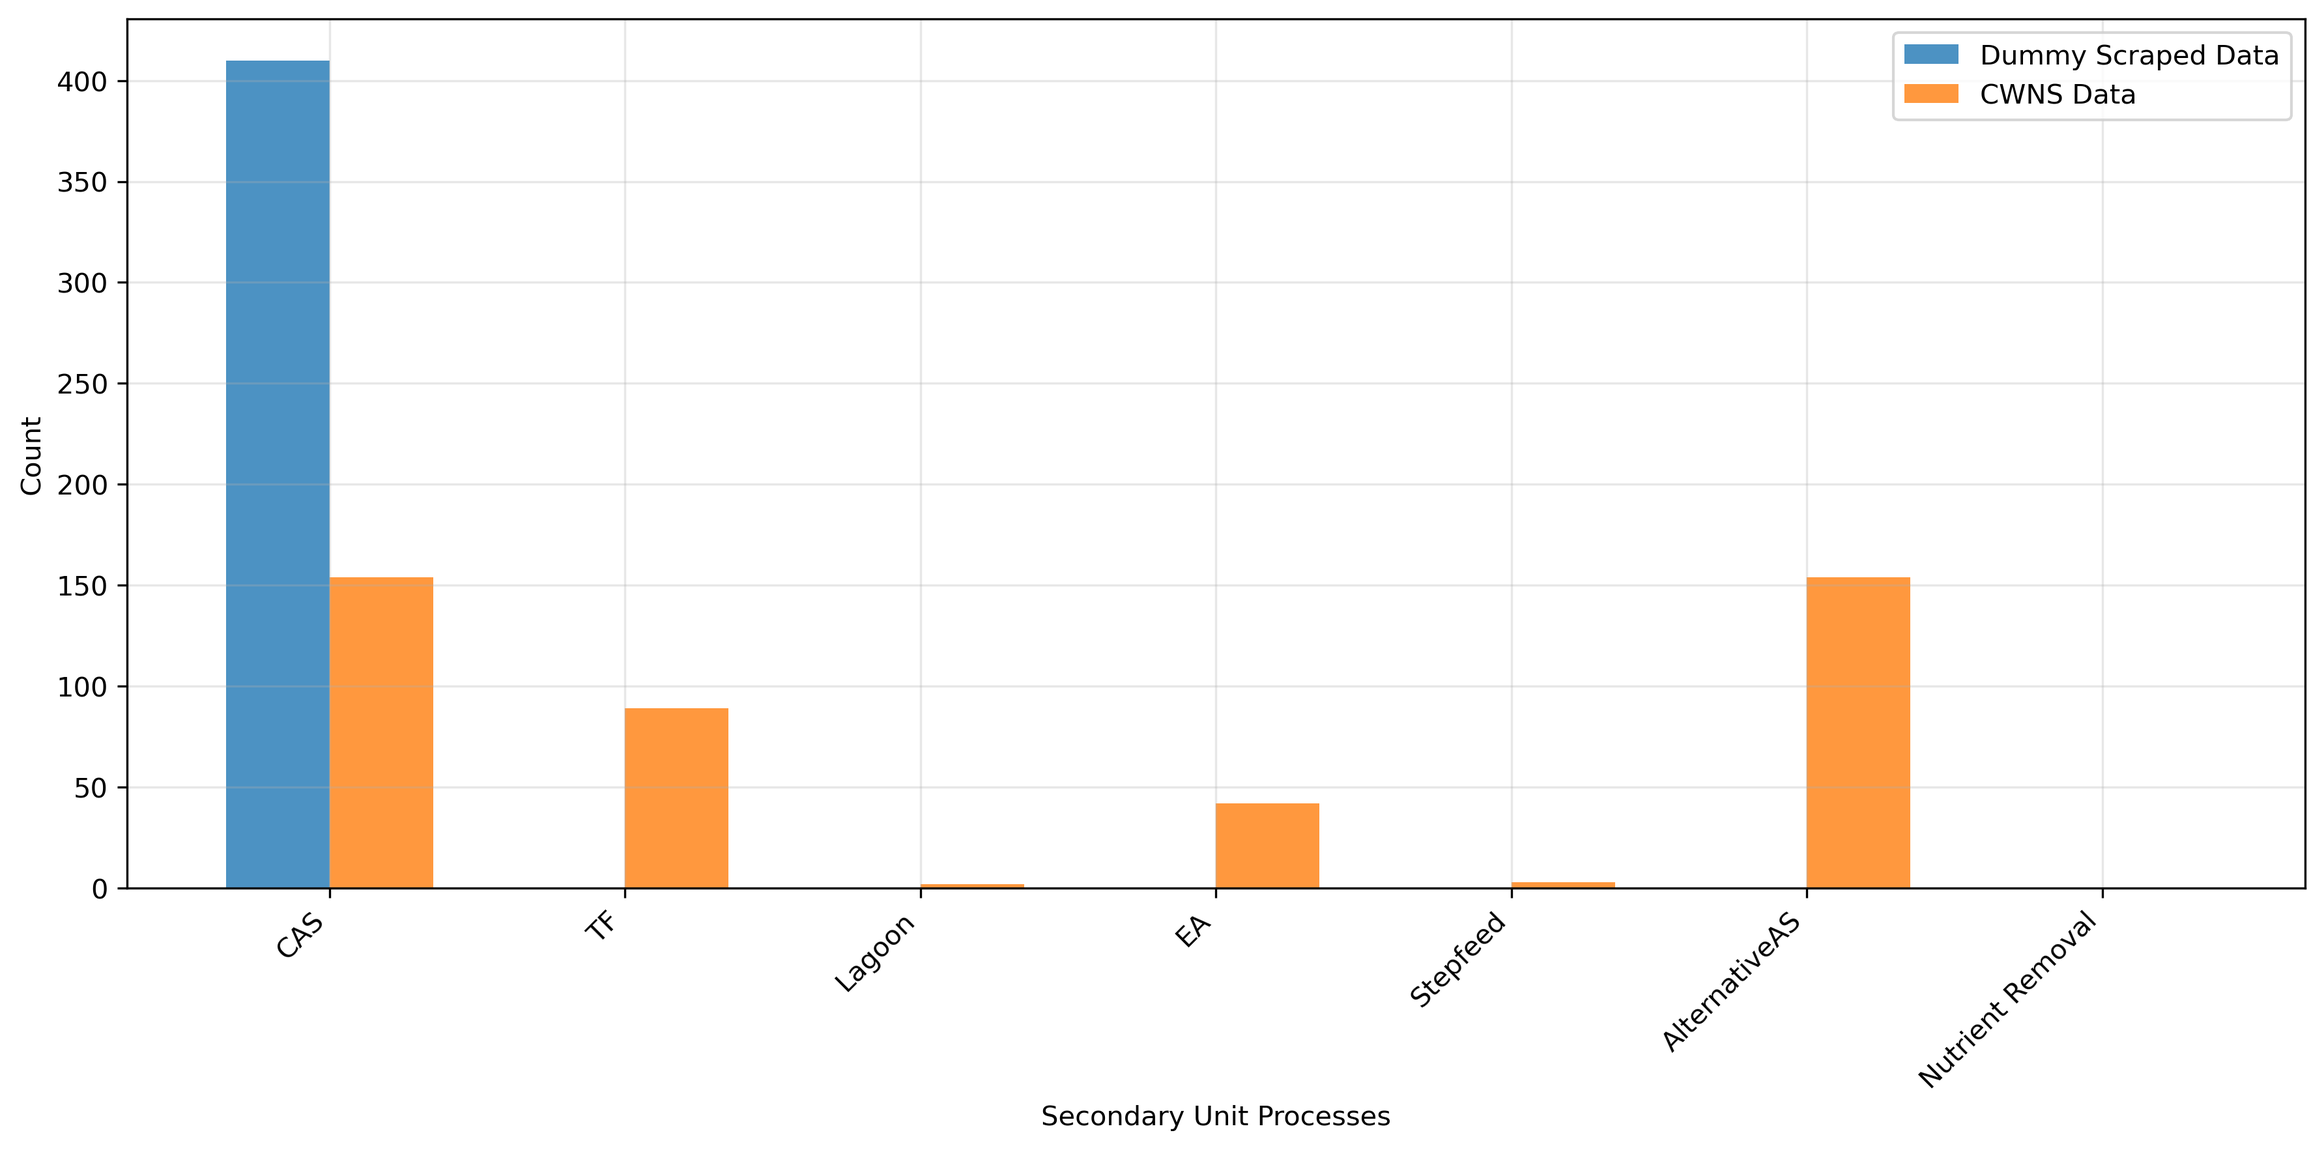
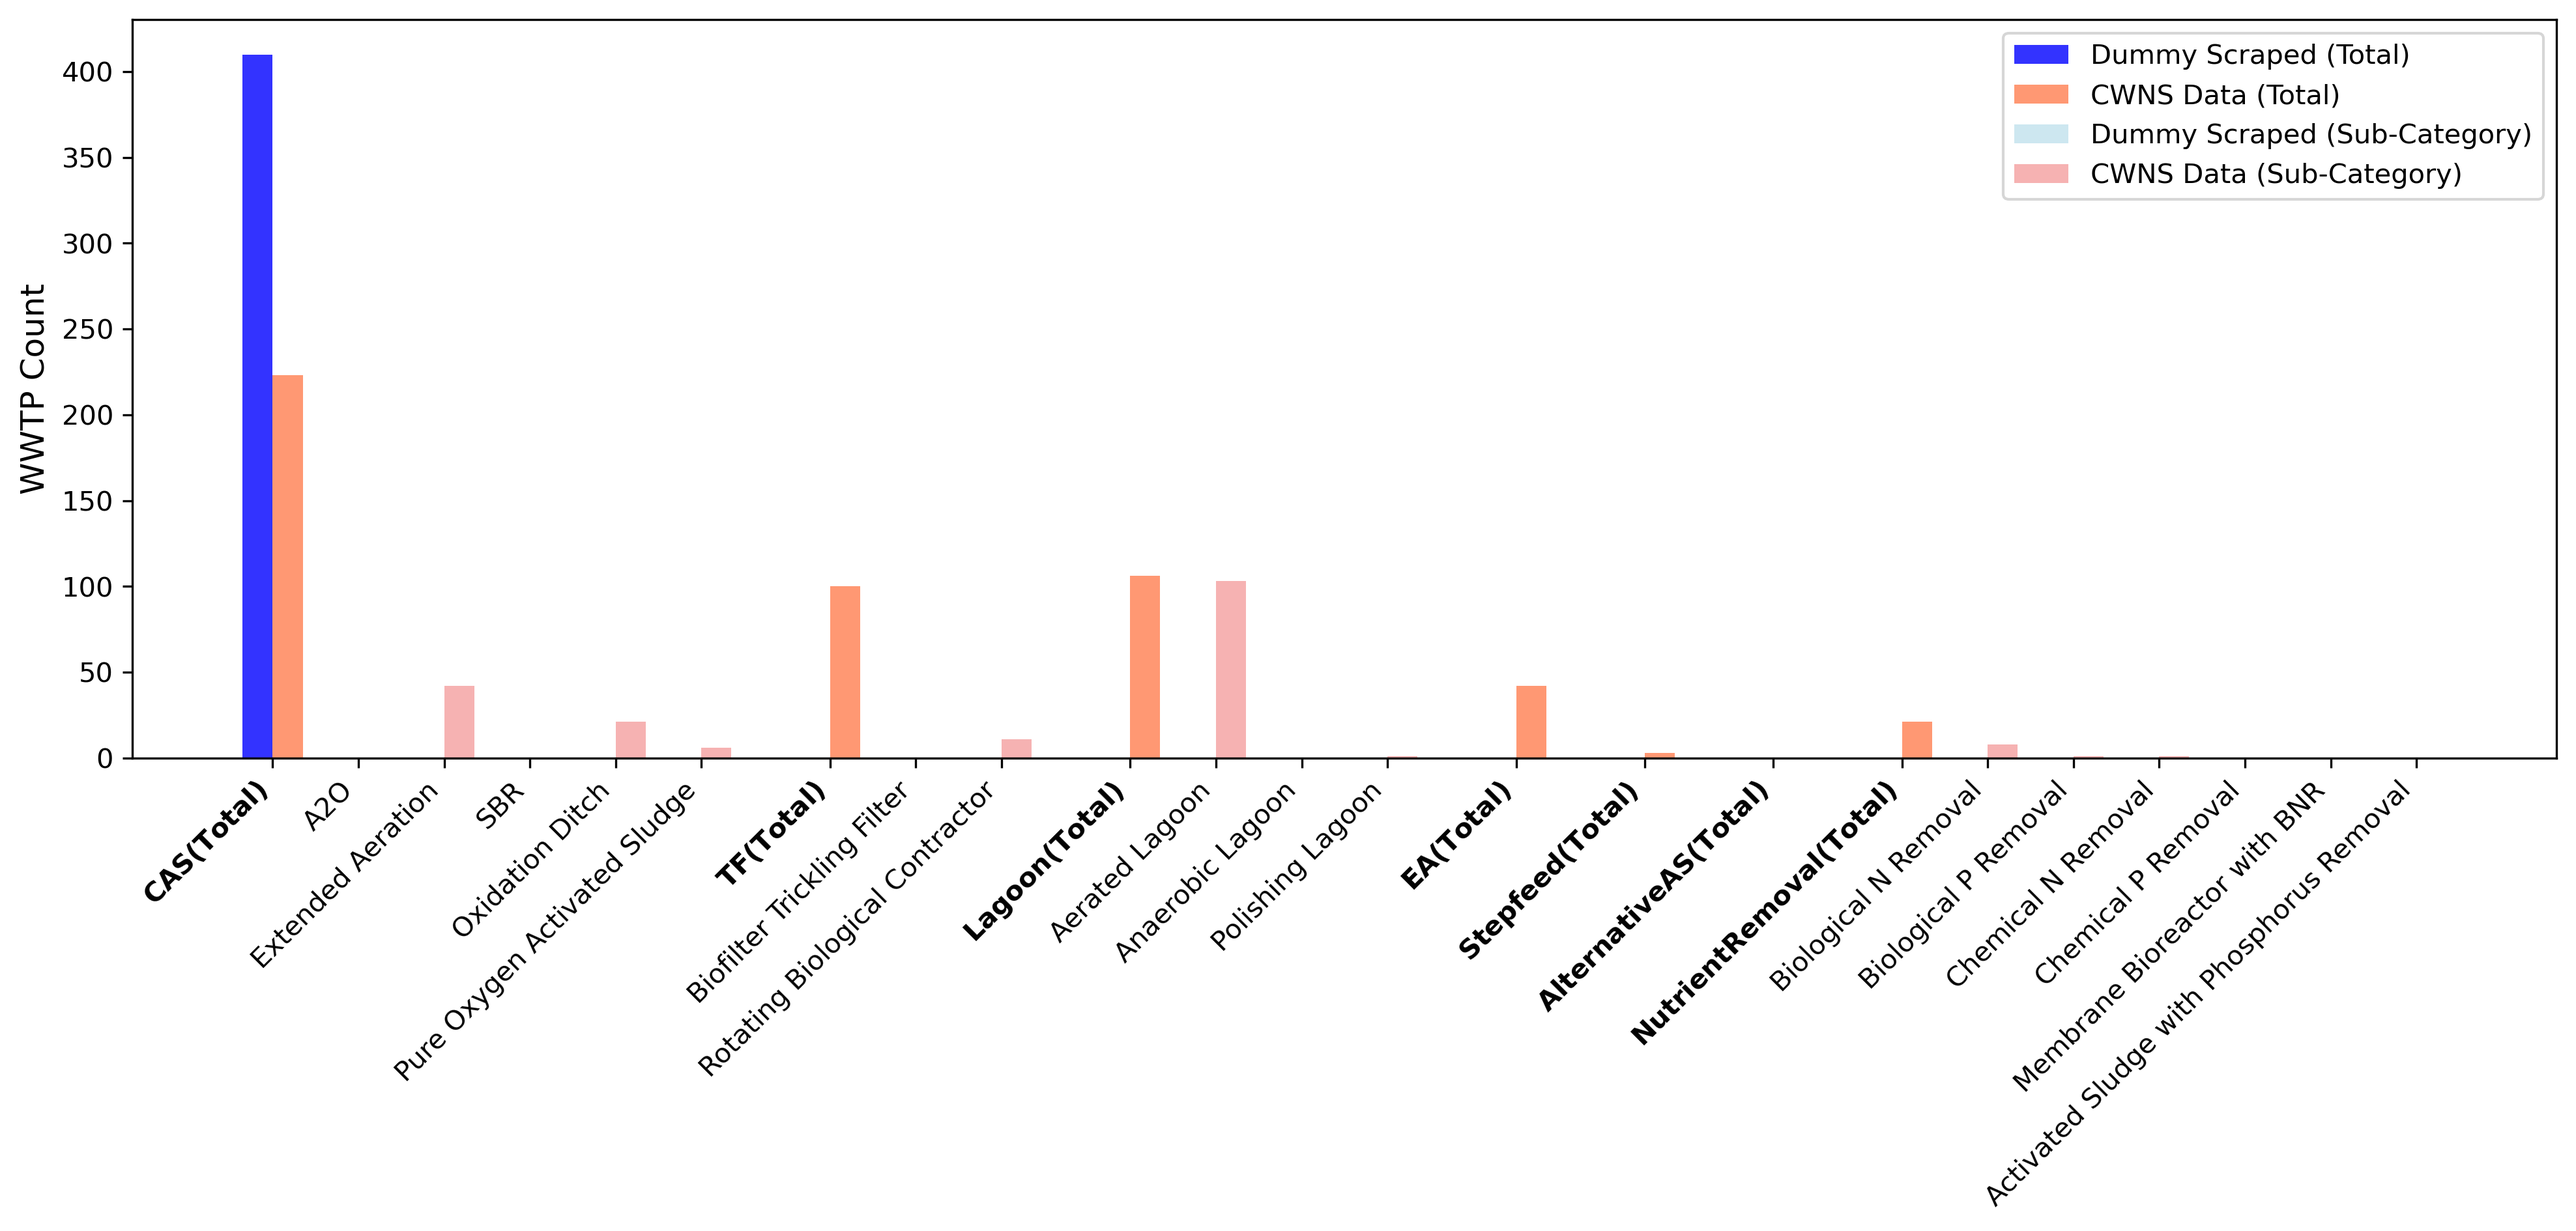
Updating plotting to have hierarchical x-axis including parent category "total" value and sub-category counts following the total

diff --git a/extract_process_names.py b/extract_process_names.py
@@ -76,11 +76,28 @@ def get_el_abbadi_code_mapping(process_name, unitprocess_keywords):
     return None
 
 ca_cwns_results_df = pd.DataFrame(0, index=[0], columns=process_names)
+# First, count individual processes (both parent and sub-categories)
 for process_name in process_names:
     el_abbadi_code = get_el_abbadi_code_mapping(process_name, unitprocess_keywords)
     if el_abbadi_code and el_abbadi_code in ca_cwns_data.columns:
         count = (ca_cwns_data[el_abbadi_code] > 0).sum()
         ca_cwns_results_df.loc[0, process_name] = count
+# Then, update parent categories to include sum of sub-categories
+for parent_name, parent_details in unitprocess_keywords['secondary'].items():
+    if isinstance(parent_details, dict) and 'alt_names' in parent_details:
+        has_sub_categories = 'sub_categories' in parent_details and any(
+            isinstance(sub_details, dict) and 'alt_names' in sub_details 
+            for sub_details in parent_details['sub_categories'].values()
+        )
+        if has_sub_categories and parent_name in ca_cwns_results_df.columns:
+            sub_category_sum = 0
+            for sub_name, sub_details in parent_details['sub_categories'].items():
+                if isinstance(sub_details, dict) and 'alt_names' in sub_details:
+                    if sub_name in ca_cwns_results_df.columns:
+                        sub_category_sum += ca_cwns_results_df.loc[0, sub_name]
+            # Add the parent's own count (if it has one) plus the sum of sub-categories
+            parent_own_count = ca_cwns_results_df.loc[0, parent_name]
+            ca_cwns_results_df.loc[0, parent_name] = parent_own_count + sub_category_sum
 
 
 # 2. CREATE EXAMPLE SCRAPED DATA
@@ -100,32 +117,91 @@ example_scraped_data_expanded['STATE_CODE'] = 'CA'
 
 
 # PLOT
-# Get secondary category processes (parent categories)
-secondary_processes = []
-for process_name, details in unitprocess_keywords['secondary'].items():
-    if isinstance(details, dict) and 'alt_names' in details:
-        secondary_processes.append(process_name)
-        # Note: Not adding sub-categories to keep only parent categories
+# Create plot data
+plot_data = []
+current_pos = 0
 
-# Create df for bar plot
-plot_data = pd.DataFrame({
-    'Process': secondary_processes,
-    'Dummy_Scraped': [(example_scraped_data_expanded[p] > 0).sum() if p in example_scraped_data_expanded.columns else 0 for p in secondary_processes],
-    'CWNS_Data': [ca_cwns_results_df.loc[0, p] if p in ca_cwns_results_df.columns else 0 for p in secondary_processes]
-})
+for parent_name, parent_details in unitprocess_keywords['secondary'].items():
+    if isinstance(parent_details, dict) and 'alt_names' in parent_details:
+        has_sub_categories = 'sub_categories' in parent_details and any(
+            isinstance(sub_details, dict) and 'alt_names' in sub_details 
+            for sub_details in parent_details['sub_categories'].values()
+        )
+        
+        if has_sub_categories:  # Add total first, then sub-categories
+            # Add parent category total first
+            plot_data.append({
+                'Category': 'Total',
+                'Parent': parent_name,
+                'Process': f'{parent_name} (Total)',
+                'Dummy_Scraped': (example_scraped_data_expanded[parent_name] > 0).sum() if parent_name in example_scraped_data_expanded.columns else 0,
+                'CWNS_Data': ca_cwns_results_df.loc[0, parent_name] if parent_name in ca_cwns_results_df.columns else 0,
+                'Position': current_pos
+            })
+            current_pos += 1
+            
+            # Then add sub-categories
+            for sub_name, sub_details in parent_details['sub_categories'].items():
+                if isinstance(sub_details, dict) and 'alt_names' in sub_details:
+                    plot_data.append({
+                        'Category': 'Sub-Category',
+                        'Parent': parent_name,
+                        'Process': sub_name,
+                        'Dummy_Scraped': (example_scraped_data_expanded[sub_name] > 0).sum() if sub_name in example_scraped_data_expanded.columns else 0,
+                        'CWNS_Data': ca_cwns_results_df.loc[0, sub_name] if sub_name in ca_cwns_results_df.columns else 0,
+                        'Position': current_pos
+                    })
+                    current_pos += 1
+        else:  # Parent category without sub-categories - just add total
+            plot_data.append({
+                'Category': 'Total',
+                'Parent': parent_name,
+                'Process': f'{parent_name} (Total)',
+                'Dummy_Scraped': (example_scraped_data_expanded[parent_name] > 0).sum() if parent_name in example_scraped_data_expanded.columns else 0,
+                'CWNS_Data': ca_cwns_results_df.loc[0, parent_name] if parent_name in ca_cwns_results_df.columns else 0,
+                'Position': current_pos
+            })
+            current_pos += 1
+        
+        current_pos += 0.5  # spacing
+
+plot_df = pd.DataFrame(plot_data)
 
 # Create bar plot
-fig, ax = plt.subplots(figsize=(12, 6))
+fig, ax = plt.subplots(figsize=(16, 6))
 width = 0.35
-ax.bar([i - width/2 for i in range(len(plot_data))], plot_data['Dummy_Scraped'], width, label='Dummy Scraped Data', alpha=0.8)
-ax.bar([i + width/2 for i in range(len(plot_data))], plot_data['CWNS_Data'], width, label='CWNS Data', alpha=0.8)
 
-ax.set_xlabel('Secondary Unit Processes')
-ax.set_ylabel('Count')
-ax.set_xticks(range(len(plot_data)))
-ax.set_xticklabels(plot_data['Process'], rotation=45, ha='right')
+# Plot bars with different colors for parent vs sub-categories
+for category in ['Total', 'Sub-Category']:
+    mask = plot_df['Category'] == category
+    if mask.any():
+        if category == 'Sub-Category':
+            ax.bar(plot_df[mask]['Position'] - width/2, plot_df[mask]['Dummy_Scraped'], width, 
+                   color='lightblue', alpha=0.6, label='Dummy Scraped (Sub-Category)' if category == 'Sub-Category' else "")
+            ax.bar(plot_df[mask]['Position'] + width/2, plot_df[mask]['CWNS_Data'], width, 
+                   color='lightcoral', alpha=0.6, label='CWNS Data (Sub-Category)' if category == 'Sub-Category' else "")
+        else:  # Totals
+            ax.bar(plot_df[mask]['Position'] - width/2, plot_df[mask]['Dummy_Scraped'], width, 
+                   color='blue', alpha=0.8, label='Dummy Scraped (Total)' if category == 'Total' else "")
+            ax.bar(plot_df[mask]['Position'] + width/2, plot_df[mask]['CWNS_Data'], width, 
+                   color='coral', alpha=0.8, label='CWNS Data (Total)' if category == 'Total' else "")
+
+# Set x-axis labels for sub-categories and totals
+all_positions = plot_df['Position'].tolist()
+all_labels = plot_df['Process'].tolist()
+
+# Make "(Total)" labels bold
+bold_labels = []
+for label in all_labels:
+    if "(Total)" in label:
+        bold_labels.append(f"$\\bf{{{label}}}$")  # LaTeX bold formatting
+    else:
+        bold_labels.append(label)
+
+ax.set_xticks(all_positions)
+ax.set_xticklabels(bold_labels, rotation=45, ha='right', fontsize=10)
+
+ax.set_ylabel('WWTP Count', fontsize=12)
 ax.legend()
-ax.grid(True, alpha=0.3)
-
-plt.tight_layout()
+plt.subplots_adjust(bottom=0.25)  # Reduce bottom margin
 plt.savefig('output/secondary_processes_comparison.png', dpi=300, bbox_inches='tight')
